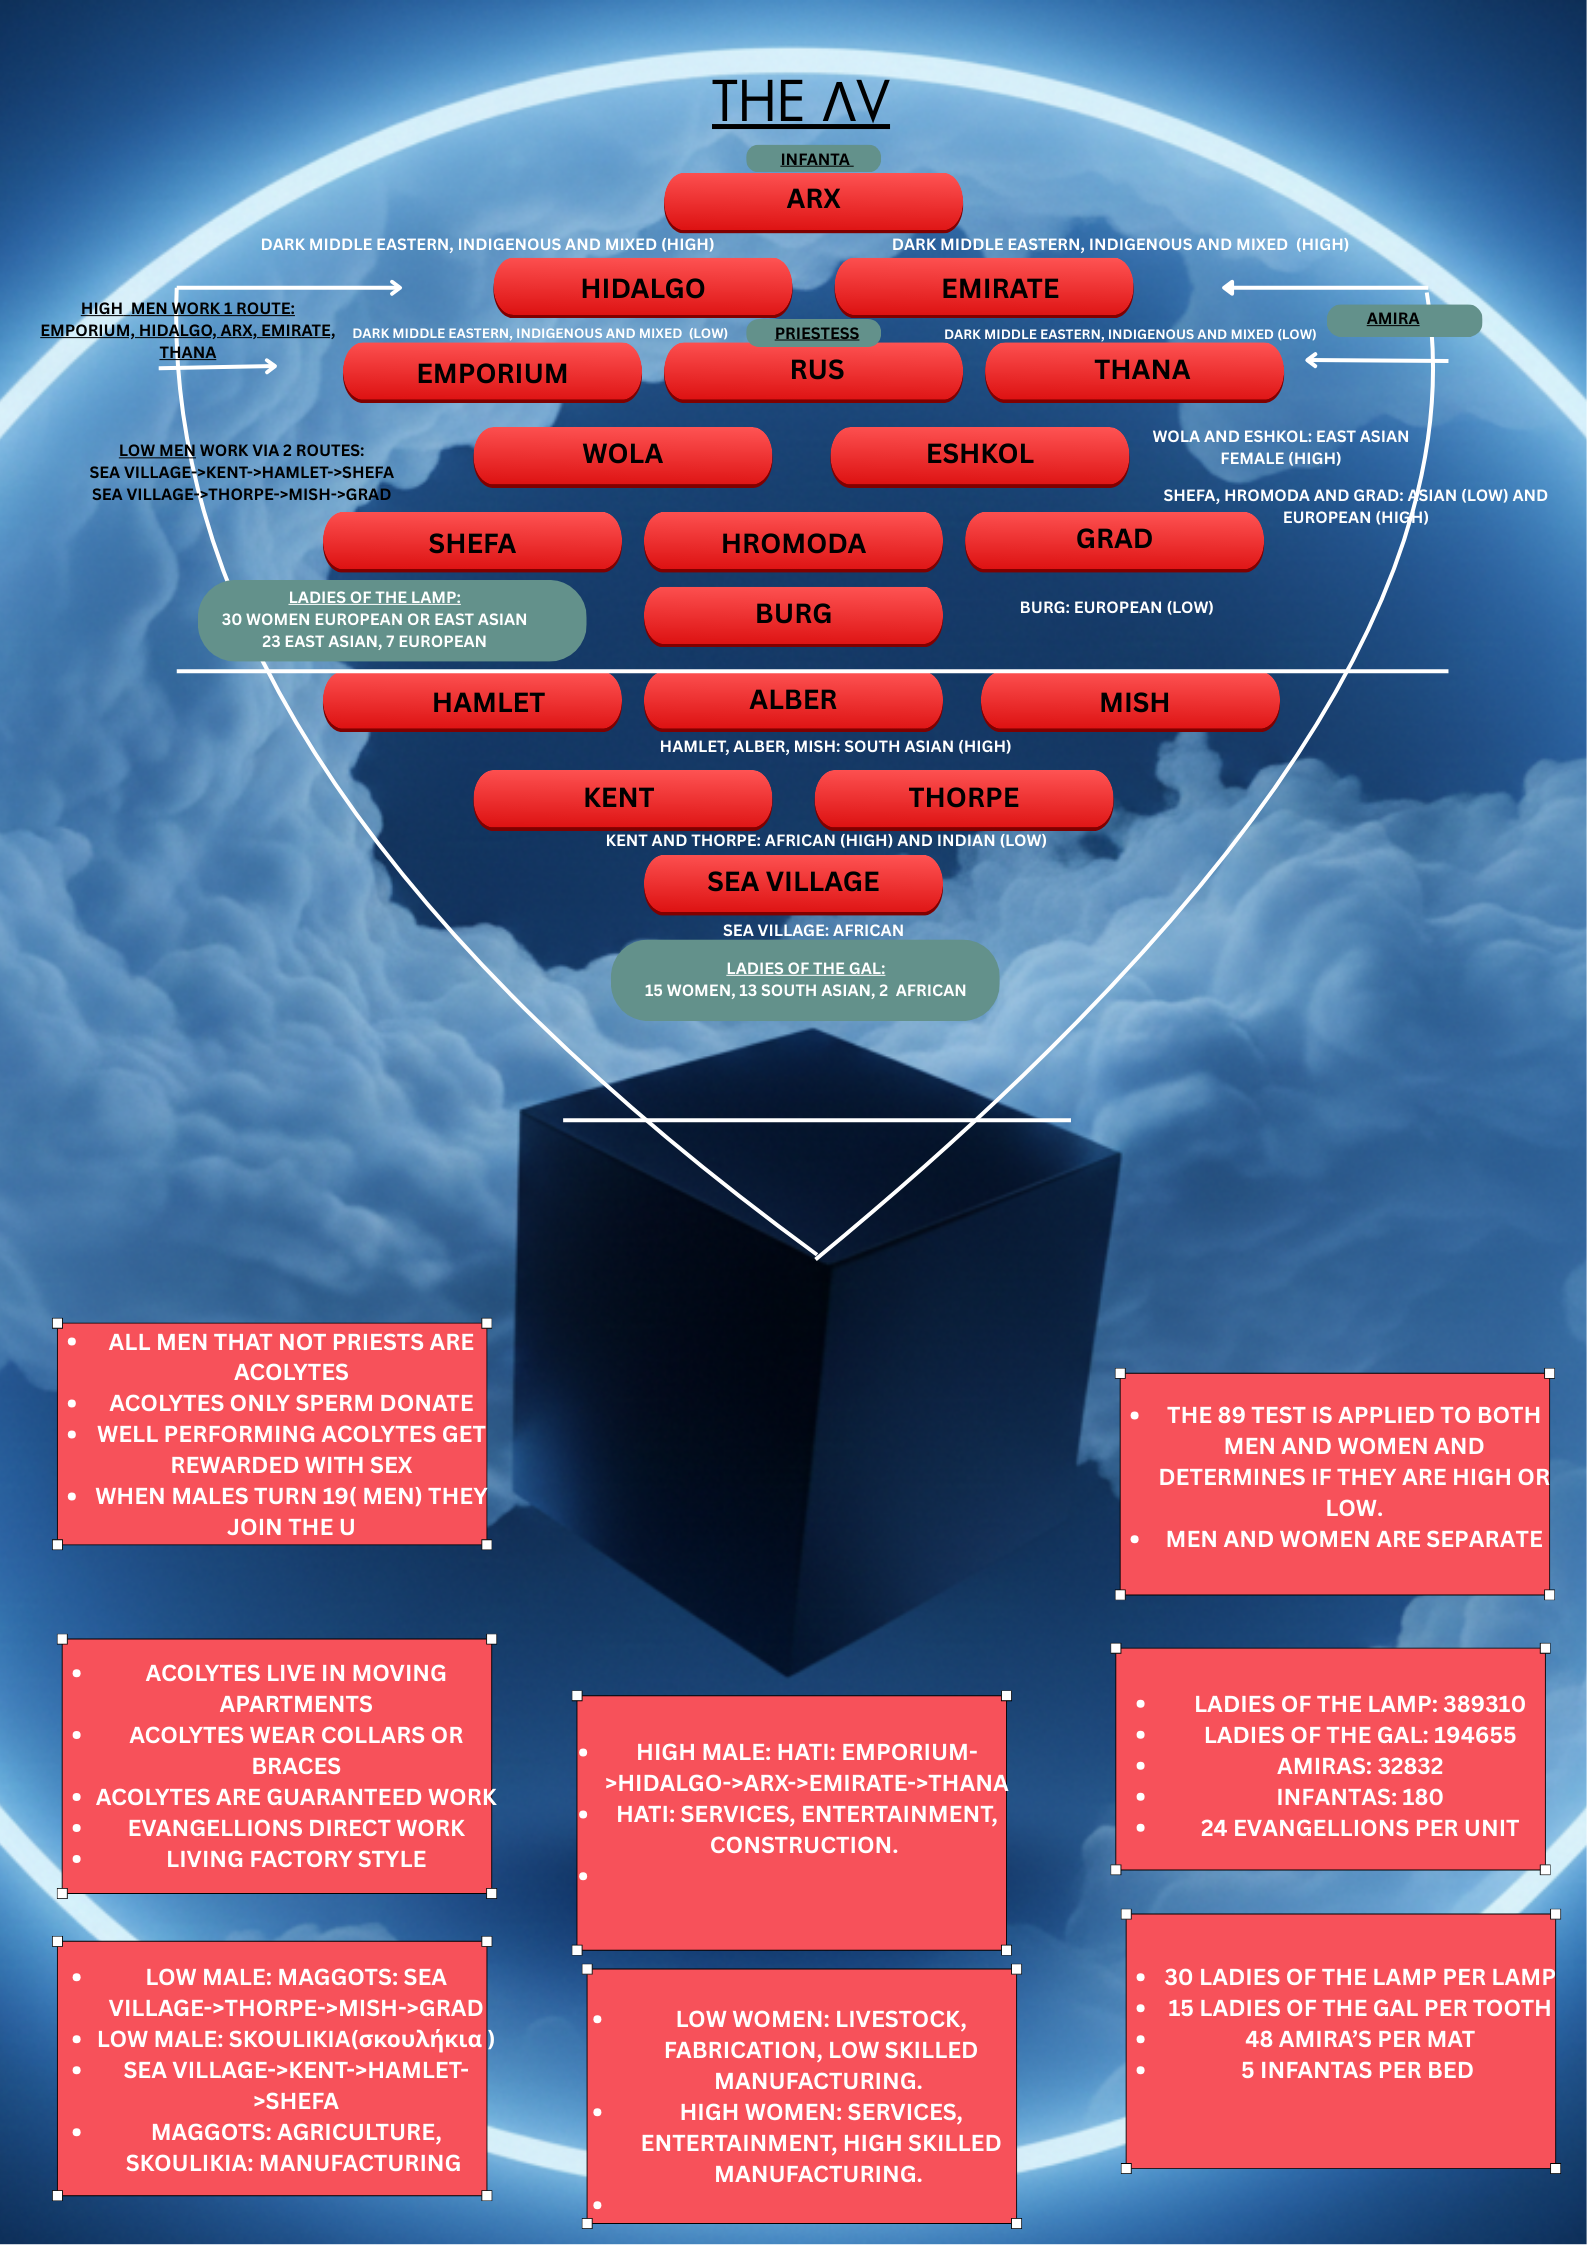
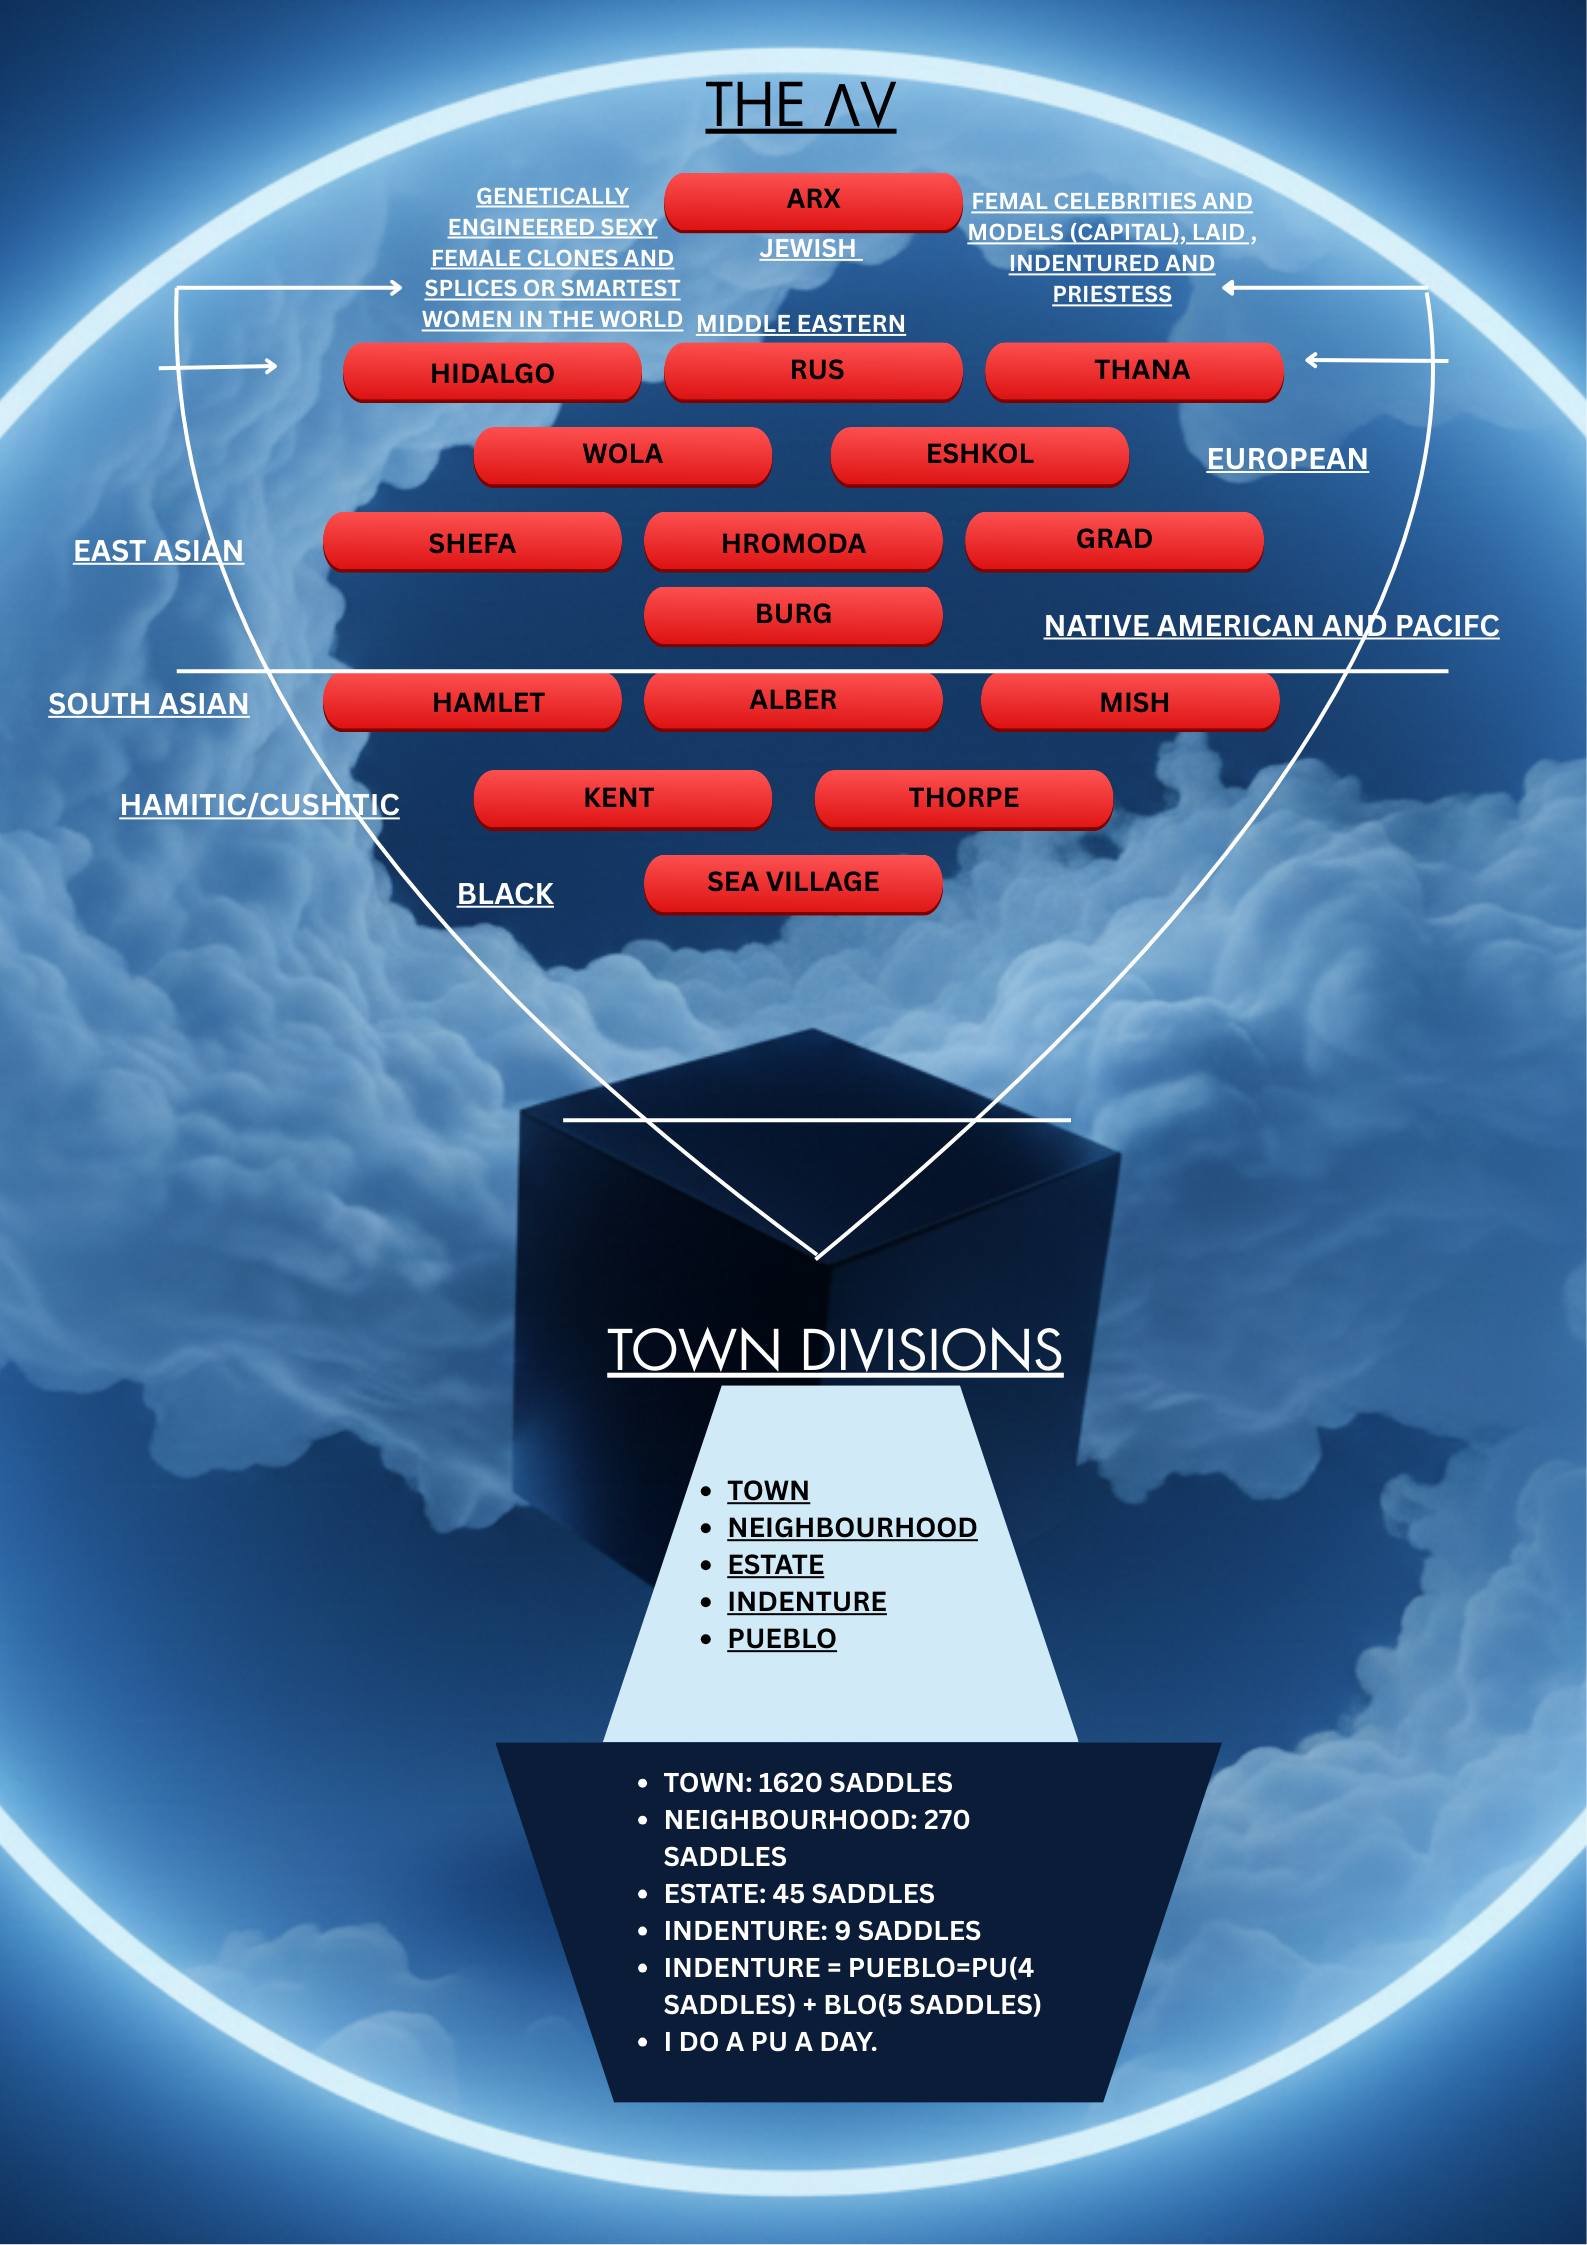
Starting the 6th of March day changes.

diff --git a/src/App.js b/src/App.js
@@ -5954,7 +5954,7 @@ There are 331,068 priestesses worldwide, calculated as 3 priestesses per town. E
   { id: 3, title: "Wola, Eshkol, Shefa, Hromoda and Grad and Burg (LAMP)", text:"The Wola, Eshkol, Shefa, Hromoda, Grad and Burg form the Lamp of a CLT governed by the Cetiya of the Upasika. The Wola is yellow, the Eshkol is yellow, the Shefa is white and yellow, the Hromada is white and yellow the Grad is whites and the Burg is white." },
   { id: 4, title: "Ham, Alber, Mish, Kent and Thorpe", text:"The Hamlet, Alber, MIsh, Kent and Thorpe form the Tooth of the CLT goverened by the Haveli of the Hari.It is where browns live.  " },
   { id: 5, title: "Palatinate, Polis, Emirate and Arche ", text:"The Palatinate, Polis, Emirate and Arche are the semi autonomus regions outside of the walls of the main part of a CLT. They are governed by members of NIFTYER59HALO or those who have extreme favour with them. Each is for a different purpose and has a different population. The Polis is full of the politests people of a CLT, the Arche is for female slaves(criminals) and queers, the Emirate is for male slaves(criminals) and city girls(women who gave up on being an acolyte) and the Palatinate is for the temporary acolytes who reside their while on their route."},
-  { id: 6, title: "Rus", text:"The Rus is the Capital Town of a CLT and the administrative center. It is home to the frontier brains and is governed by the Synagogue of the Sefer. "},
+  { id: 6, title: "Rus", text:"The Rus is the Capital Town of a CLT and the administrative center. It is home to the frontier brains and is governed by the Synagogue of the Sefer. The Rus is where children of priests go for their education comencing at 14 for the females and 16 for the males. Their religious education lasts for 4 years during which they spend a year as an acolyte (16 to 17 females)(18 to 19 males). After which they return to their Holy City fully ordained and ready for work, marriage and in touch with life within a CLT. "},
   { id: 7, title: "Emporium", text:"The Emporiums are trade posts along the routes governed by a Sexton."},
   { id: 8, title: "Statistics",   text: "• 8.27 billion total people\n• 1.2 billion sea village inhabitants\n• 2 billion 469 million 300 thousand acolytes\n• 827 million queer people (not going to be a separate class now they probably just join the MSHN)\n• 3 billion 773 million 700 thousand remaining people (nothings)"},
   { id: 9, title: "Glossary", text: "1. Town — A land settlement within a CLT (maximum population: 29,542) • 2. Village (Sea Village) — A water settlement within a CLT (maximum population: 29,542) • 3. CLT — A group consisting of 17 Towns, 1 Village, 1 Emirate, 1 Palatinate, 1 Arche, and 1 Polis • 4. FEST — A federation of 4 CLTs, each with a unique focus: Fashion, Entertainment, Science, and Trade • 5. SHUBs — A grouping of 3 FESTs • 6. RAVE — A grouping of 7 SHUBs • 7. PANIC — A grouping of 14 RAVEs • 8. DISCO — A grouping of 11 PANICs • 9. BALL — A collection of DISCOs (ranging from 1 to N depending on continent size) • 10. RACH — The total sum of all BALLs"},
